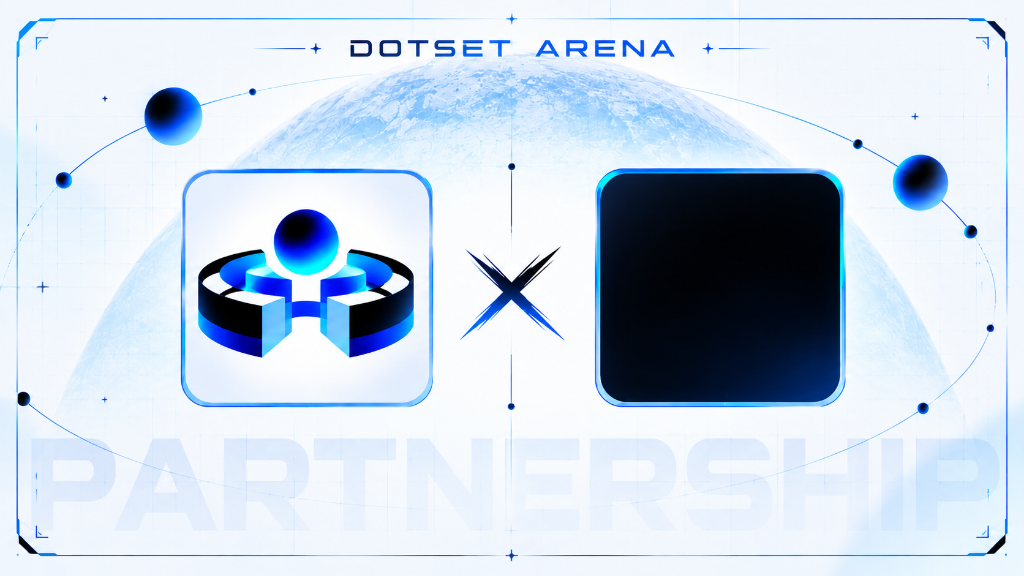
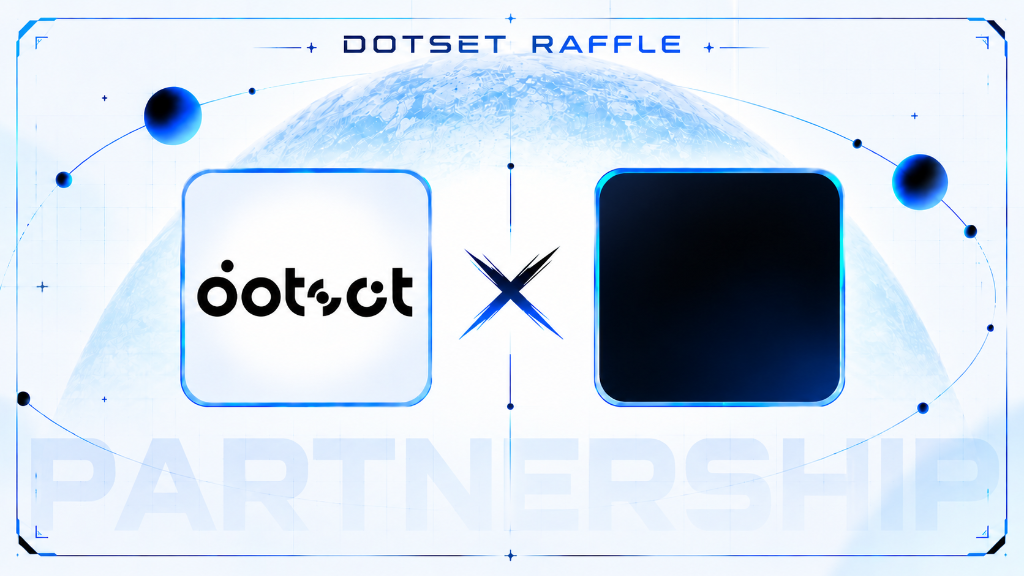
feat: update download card template with new partnership graphic and glowing border alignment

diff --git a/components/EntryCardModal.tsx b/components/EntryCardModal.tsx
@@ -63,7 +63,7 @@ export function EntryCardModal({
         await new Promise((resolve) => {
           bgImg.onload = resolve;
           bgImg.onerror = resolve;
-          bgImg.src = '/partnership-template.png';
+          bgImg.src = '/partnership-template.png?v=2';
         });
 
         if (bgImg.complete && bgImg.naturalWidth > 0) {
@@ -77,12 +77,12 @@ export function EntryCardModal({
           ctx.fillRect(0, 0, W, H);
         }
 
-        // 2. Project Box Coordinates on Template (Right Box)
-        const boxX = 595;
-        const boxY = 169;
-        const boxW = 251;
-        const boxH = 251;
-        const boxR = 38;
+        // 2. Project Box Coordinates on Template (Right Box inside glowing border)
+        const boxX = 600;
+        const boxY = 174;
+        const boxW = 241;
+        const boxH = 241;
+        const boxR = 34;
 
         // Helper for rounded rectangle path
         const drawRoundedRect = (x: number, y: number, w: number, h: number, r: number) => {
